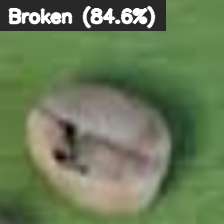
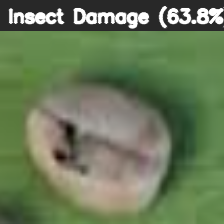
Fix: inferences mask

Changed region(s): [[0.0312, 0.0, 1.0, 0.1562]]

diff --git a/src/data/preprocessing.py b/src/data/preprocessing.py
@@ -32,26 +32,73 @@ def set_seed(seed=42):
   tf.random.set_seed(seed)
 
 
+def otsu_foreground_mask(gray):
+  """Umbral de Otsu que elige automáticamente qué lado es el fondo.
+
+  THRESH_BINARY_INV por sí solo asume que el fondo siempre es más claro
+  que el grano (cierto con fondo blanco, pero se invierte con fondo
+  negro: ahí terminaría marcando el fondo entero como "grano"). Como el
+  fondo casi siempre toca los bordes de la foto y el grano casi nunca,
+  comparamos qué lado del umbral toca menos los bordes y ese es el
+  grano — funciona con fondo claro u oscuro sin necesitar saberlo de
+  antemano.
+  """
+  _, thresh = cv2.threshold(gray, 0, 255, cv2.THRESH_BINARY_INV + cv2.THRESH_OTSU)
+  inverted = cv2.bitwise_not(thresh)
+
+  border = np.zeros_like(gray, dtype=bool)
+  border[0, :] = border[-1, :] = border[:, 0] = border[:, -1] = True
+
+  thresh_touches_border = thresh[border].mean()
+  inverted_touches_border = inverted[border].mean()
+  return thresh if thresh_touches_border < inverted_touches_border else inverted
+
+
+def foreground_mask(image_bgr):
+  """Máscara de grano candidato: umbral de Otsu sobre brillo
+  (otsu_foreground_mask).
+
+  Se probó sumar un filtro de tono verde para descartar fondos tipo
+  pasto/plástico verde, pero el dataset es de café CRUDO (green coffee):
+  los granos mismos son verdes/oliva, así que ese filtro borraba grano
+  real, no solo fondo. Se sacó — separar por color no es viable en este
+  dataset, solo por brillo.
+  """
+  gray = cv2.cvtColor(image_bgr, cv2.COLOR_BGR2GRAY)
+  return otsu_foreground_mask(gray)
+
+
 def get_bean_mask(image_bgr):
-  """Separa el grano del fondo con un umbral de Otsu y se queda con el
-  contorno más grande como máscara del grano.
+  """Separa el grano del fondo con un umbral de Otsu (foreground_mask) y
+  se queda con el contorno más grande como máscara del grano.
 
   Convex hull + dilatación leve sobre el contorno crudo: sin esto, un
   grano con textura muy irregular (algún parche casi tan claro como el
   fondo) queda con muescas y se ve "quebrado" en vez de una silueta
   completa.
   """
-  gray = cv2.cvtColor(image_bgr, cv2.COLOR_BGR2GRAY)
-  _, thresh = cv2.threshold(gray, 0, 255, cv2.THRESH_BINARY_INV + cv2.THRESH_OTSU)
+  mask = foreground_mask(image_bgr)
 
-  contours, _ = cv2.findContours(thresh, cv2.RETR_EXTERNAL, cv2.CHAIN_APPROX_SIMPLE)
+  contours, _ = cv2.findContours(mask, cv2.RETR_EXTERNAL, cv2.CHAIN_APPROX_SIMPLE)
   if not contours:
     return None
 
-  largest_contour = max(contours, key=cv2.contourArea)
-  hull = cv2.convexHull(largest_contour)
+  # Se asume UN grano por foto (así son las fotos de entrenamiento y
+  # las de predict.py). Con esa garantía, cualquier contorno relevante
+  # es parte del mismo grano: si una mancha o hendidura hace que Otsu
+  # lo parta en 2+ pedazos separados, unimos todos antes del hull en
+  # vez de quedarnos solo con el más grande — si no, se pierde el
+  # pedazo más chico (ej. la punta oscura de un grano "Partial Black").
+  # No aplica a find_bean_boxes() en predict_multiple.py, donde sí hay
+  # varios granos reales y cada contorno debe seguir siendo distinto.
+  significant_contours = [c for c in contours if cv2.contourArea(c) > 50]
+  if not significant_contours:
+    return None
 
-  mask = np.zeros_like(gray)
+  all_points = np.vstack(significant_contours)
+  hull = cv2.convexHull(all_points)
+
+  mask = np.zeros_like(mask)
   cv2.drawContours(mask, [hull], -1, 255, thickness=cv2.FILLED)
 
   kernel = cv2.getStructuringElement(cv2.MORPH_ELLIPSE, (9, 9))

diff --git a/src/inference/predict_multiple.py b/src/inference/predict_multiple.py
@@ -10,6 +10,7 @@ import os
 import sys
 
 import cv2
+import matplotlib.pyplot as plt
 import numpy as np
 import tensorflow as tf
 
@@ -18,7 +19,7 @@ SRC_DIR = os.path.abspath(os.path.join(CURRENT_DIR, ".."))
 if SRC_DIR not in sys.path:
   sys.path.insert(0, SRC_DIR)
 
-from data.preprocessing import preprocess_image
+from data.preprocessing import foreground_mask, preprocess_image
 from inference.predict import load_trained_model, select_image_via_file_dialog
 from utils.config import ARCHITECTURES, FIGURES_DIR
 
@@ -27,19 +28,26 @@ from utils.config import ARCHITECTURES, FIGURES_DIR
 # fijo que dependa de la resolución de la cámara.
 MIN_BEAN_AREA_FRACTION = 0.005
 
-
 def find_bean_boxes(image_bgr):
-  """Encuentra el rectángulo (x, y, w, h) de cada grano en la foto."""
-  gray = cv2.cvtColor(image_bgr, cv2.COLOR_BGR2GRAY)
-  _, thresh = cv2.threshold(gray, 0, 255, cv2.THRESH_BINARY_INV + cv2.THRESH_OTSU)
+  """Encuentra el rectángulo (x, y, w, h) de cada grano en la foto.
 
-  contours, _ = cv2.findContours(thresh, cv2.RETR_EXTERNAL, cv2.CHAIN_APPROX_SIMPLE)
+  Se probó erosionar la máscara antes de buscar contornos, para separar
+  granos que casi se tocan. En la práctica encogía contornos ya
+  parciales (bordes suaves, sombras) por debajo del área mínima y
+  perdía granos que sí estaban bien separados — hacía más daño que
+  beneficio, así que se sacó. Granos que se tocan entre sí siguen
+  fusionándose en un solo contorno: es un límite conocido de "umbral +
+  contornos" sin watershed/segmentación entrenada.
+  """
+  mask = foreground_mask(image_bgr)
+  contours, _ = cv2.findContours(mask, cv2.RETR_EXTERNAL, cv2.CHAIN_APPROX_SIMPLE)
 
-  image_area = image_bgr.shape[0] * image_bgr.shape[1]
-  min_area = image_area * MIN_BEAN_AREA_FRACTION
+  image_h, image_w = image_bgr.shape[:2]
+  min_area = image_h * image_w * MIN_BEAN_AREA_FRACTION
 
-  boxes = [cv2.boundingRect(c) for c in contours if cv2.contourArea(c) >= min_area]
-  return boxes
+  return [
+      cv2.boundingRect(c) for c in contours if cv2.contourArea(c) >= min_area
+  ]
 
 
 def classify_crop(crop_bgr, model, architecture):
@@ -104,6 +112,19 @@ def predict_multiple_beans(image_path, architecture="mobilenet"):
   )
   cv2.imwrite(out_file, annotated)
   print(f"\nImagen anotada guardada en: {out_file}")
+
+  annotated_rgb = cv2.cvtColor(annotated, cv2.COLOR_BGR2RGB)
+  plt.figure(figsize=(10, 8))
+  plt.imshow(annotated_rgb)
+  plt.axis("off")
+  plt.title(
+      f"Granos detectados: {len(boxes)} ({architecture.upper()})",
+      fontsize=14,
+      fontweight="bold",
+      color="darkblue",
+  )
+  plt.tight_layout()
+  plt.show()
 
   return results
 
